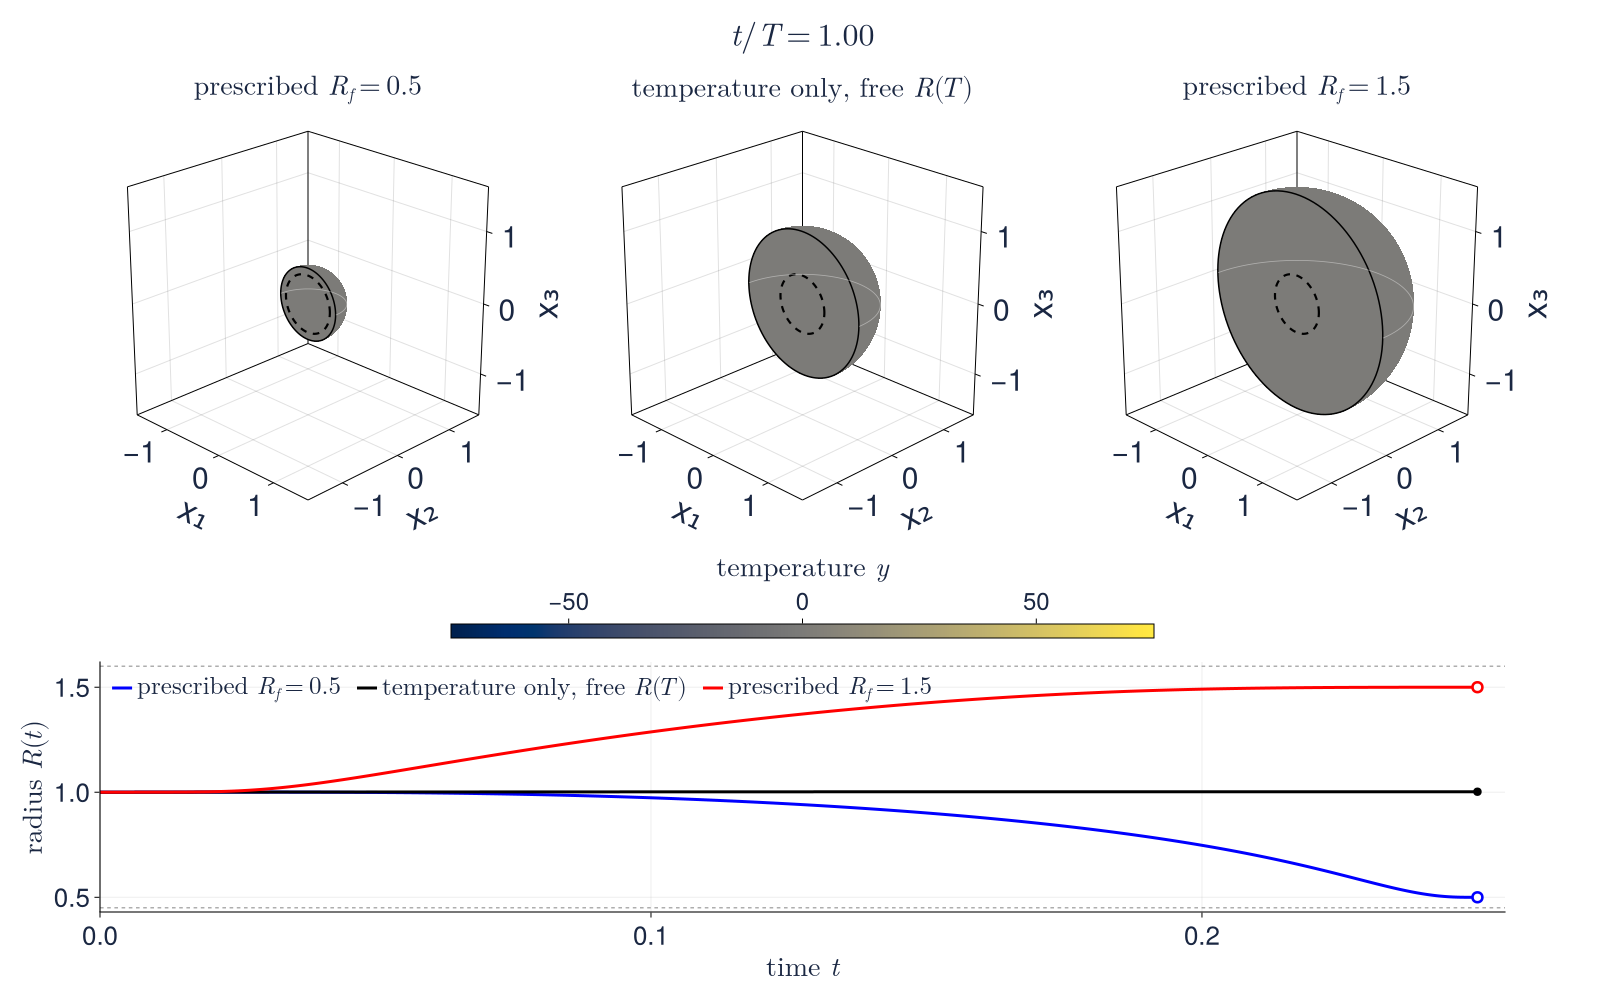
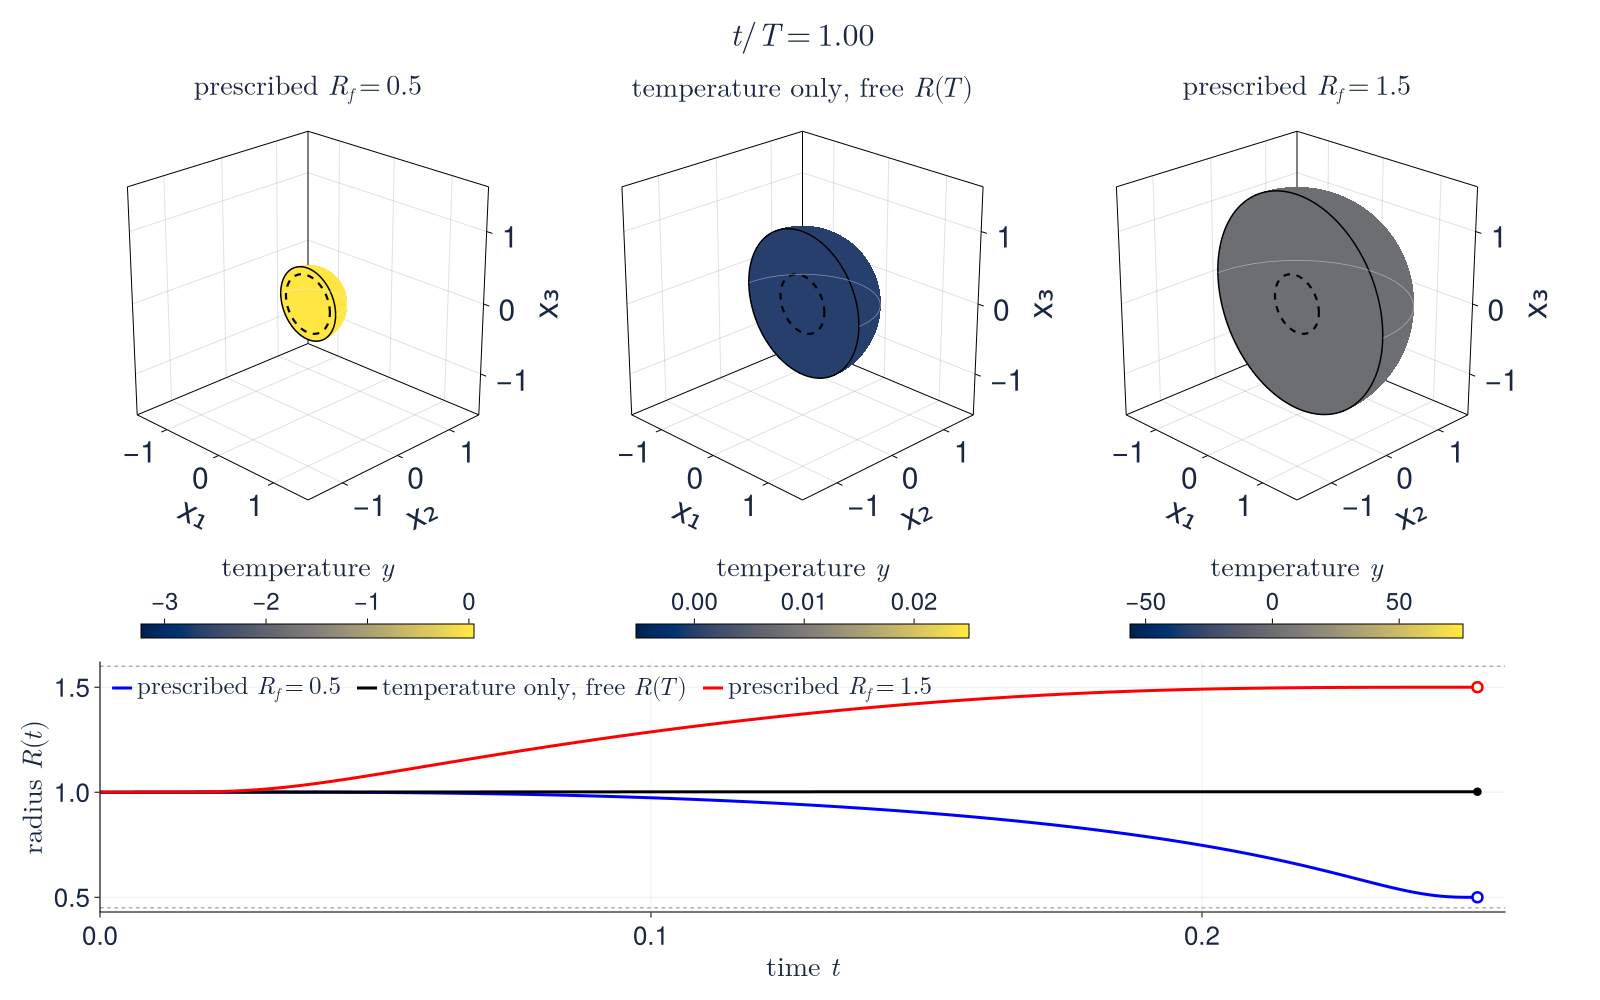
Use an independent temperature colorbar for each animation panel

diff --git a/README.md b/README.md
@@ -17,7 +17,7 @@
     <img src="figures/animation/stefan_domain_control.gif" alt="Animation: three balls of water in ice, cut open to show the temperature on a diametral section. With a temperature-only control the final radius is left free; with a prescribed terminal radius the same control region shrinks the ball to 0.5 or grows it to 1.5 while the temperature returns to zero. The radius traces below reach their targets." width="100%">
   </a>
 </p>
-<p align="center"><sub>Three controls from the same initial temperature, acting only inside the dashed circle of radius <i>b</i> = 0.4. Left and right: the free boundary is steered to the prescribed radii <i>R<sub>f</sub></i> = 0.5 and 1.5 while the temperature is driven to zero. Middle: a temperature-only control with the same actuator, which leaves the radius free. The traces below are the computed radii and the hollow circles their prescribed targets. The animation plays at half speed, with a 13.6-second loop. <a href="data/animation/summary.csv">Animation experiment records</a> · <a href="figures/animation/stefan_domain_control_still.png">Final frame</a>.</sub></p>
+<p align="center"><sub>Three controls from the same initial temperature, acting only inside the dashed circle of radius <i>b</i> = 0.4. Left and right: the free boundary is steered to the prescribed radii <i>R<sub>f</sub></i> = 0.5 and 1.5 while the temperature is driven to zero. Middle: a temperature-only control with the same actuator, which leaves the radius free. The traces below are the computed radii and the hollow circles their prescribed targets. Each evolution has its own temperature min–max colorbar, fixed across frames; all three use cividis. The animation plays at half speed, with a 13.6-second loop. <a href="data/animation/summary.csv">Animation experiment records</a> · <a href="figures/animation/stefan_domain_control_still.png">Final frame</a>.</sub></p>
 
 Water occupies a ball $B_{R(t)}\subset\mathbb R^3$ surrounded by ice at zero
 temperature. The temperature $y$ solves a semilinear heat equation
@@ -54,11 +54,12 @@ The README animation uses three additional runs in [data/animation/](data/animat
 with actuator radius $b=0.4$ and prescribed targets $R_f=0.5$ and $1.5$. The
 figures and tables below report the original 126 paper experiments.
 
-Signed temperature and control fields use **cividis**, a blue–gray–yellow
-color scale with symmetric limits and zero in gray. Panels comparing the same
-field share one scale; the animation keeps its scale fixed across all frames.
-Nonnegative diagnostics use the sequential **Blues** palette on their displayed
-range.
+In the paper figures, signed temperature and control fields use **cividis**, a
+blue–gray–yellow color scale with symmetric limits and zero in gray. Panels
+comparing the same field share one scale. The animation uses the same palette
+with a separate colorbar for each evolution, spanning that run’s full
+temperature range and fixed across frames. Nonnegative diagnostics use the
+sequential **Blues** palette on their displayed range.
 
 | Experiment | Question | Records |
 | --- | --- | --- |

diff --git a/REPRODUCING.md b/REPRODUCING.md
@@ -49,12 +49,12 @@ figure and table to its underlying records.
 | `regularization.tex` | `eta_-4`, `eta_-6`, `eta_-8`, `mesh_63`, `eta_-12` |
 | `horizon_actuator.tex` | `time_*`, `support_*`, `mesh_63` |
 
-Signed temperature and control fields use the blue–gray–yellow `cividis`
-palette with limits $[-A,A]$, where $A$ is the largest absolute value in the
-fields being compared, so zero is gray. Compared panels share these limits,
-and the animation uses one range for all three runs and all frames. Nonnegative
-diagnostics retain the sequential `Blues` palette, with ranges shown on their
-colorbars.
+In the paper figures, signed temperature and control fields use the
+blue–gray–yellow `cividis` palette with limits $[-A,A]$, where $A$ is the largest
+absolute value in the fields being compared, so zero is gray. Compared panels
+share these limits. Nonnegative diagnostics retain the sequential `Blues`
+palette, with ranges shown on their colorbars. The animation uses a separate
+colorbar for each evolution, as described below.
 
 ## README animation experiment
 
@@ -63,9 +63,11 @@ recomputed temperature-only control on the same mesh $(N,M,K)=(127,512,32)$.
 All three runs use $R_0=1$, $T=0.25$, $b=0.4$, $(R_*,E)=(0.45,1.6)$,
 $\eta=10^{-10}$ and the same positive initial profile with amplitude $a=0.02$.
 The smaller actuator stays inside the contracting ball. The three trajectories
-share one spatial scale and a symmetric cividis temperature scale across all
-frames. Playback lasts 13.6 seconds, including the final-state hold; this is
-half the previous playback speed and does not change the simulation horizon.
+share one spatial scale and the cividis palette. Each evolution has its own
+colorbar, whose limits are the minimum and maximum temperatures over that
+run’s full trajectory. These three ranges stay fixed across frames. Playback
+lasts 13.6 seconds, including the final-state hold; this is half the previous
+playback speed and does not change the simulation horizon.
 
 Their parameters, states, controls and iteration histories are stored in
 `data/animation/`, alongside a separate `summary.csv` and `provenance.toml`.
